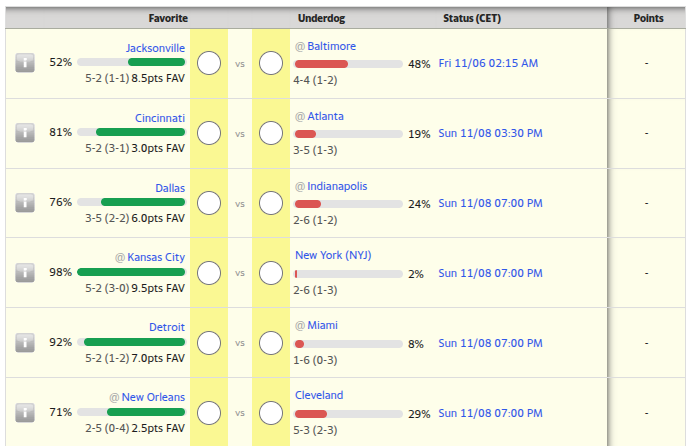
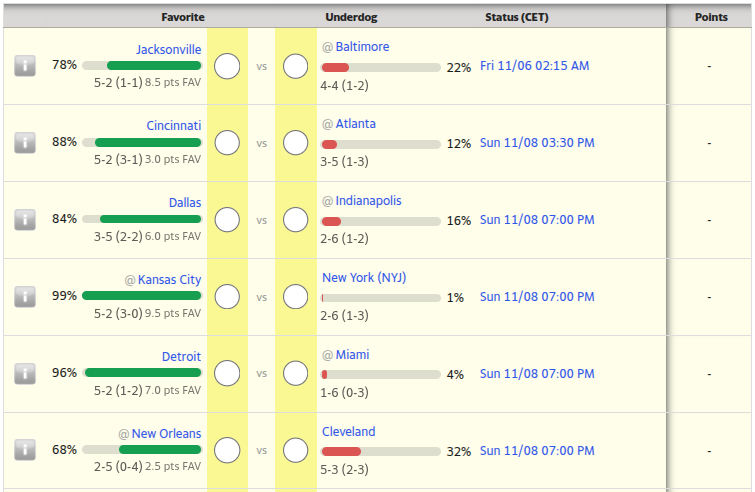
Add README and MIT license
Include the updated screenshot.

diff --git a/README.md b/README.md
@@ -1,0 +1,63 @@
+# Better Yahoo Pick'em Form
+
+A userscript that improves the picks form of Yahoo! Fantasy Football **Pick'em** games, for both **College Football (CFB)** and the **NFL**.
+
+Yahoo shows the pick distribution, the team records and the spread on another view of the page, so making your picks means constantly moving your eyes back and forth or clicking "matchup information" for every game, if you rely on those informations to do so. This script displays them **directly under each team** of the form.
+
+![Pick'em form with the pick distribution, records and spread under each team](screenshot.png)
+
+## What it shows
+
+Under each team, for every game of the form:
+
+- **Pick distribution**: the percentage of players in your group who picked that team, with a bar (green for the most picked team, red for the other one).
+- **Record**: the team's overall W-L record, followed by its home or away record in parentheses, as Yahoo displays it.
+- **Spread**: the points spread in favor of the favorite (`x.x pts FAV`).
+
+## Installation
+
+1. Install a userscript manager, such as [Tampermonkey](https://www.tampermonkey.net/) (recommended) or Violentmonkey.
+   - On Chrome and Edge, you may need to enable **Allow User Scripts** on the extension's details page (or Developer Mode on older versions), otherwise no script will run.
+2. In *Tampermonkey*, go to the **Utilities** tab, paste this URL in the **Import from URL** field (at the bottom of the page) and click **Install**:
+
+   ```
+   https://raw.githubusercontent.com/WalsGit/Better-yahoo-pickem/main/BetterYahooPickem.user.js
+   ```
+
+You can also install it from one of these sources:
+
+- Greasy Fork: *link to be added*
+- OpenUserJS: *link to be added*
+
+## Supported pages
+
+The script runs on the pick forms of your groups:
+
+| Game | Page |
+| --- | --- |
+| NFL Pick'em | `https://football.fantasysports.yahoo.com/pickem/{group id}/{user id}` |
+| College football Pick'em | `https://football.fantasysports.yahoo.com/college/{group id}/{user id}` |
+
+It does nothing on pages without a pick form (past weeks, upcoming weeks whose games are not set yet, or viewing other users' picks).
+
+## How it works
+
+The script reads the "matchup information" page Yahoo links from the form, which contains the pick distribution of all games, with a single request. Each game of that page is then matched to its row in the form through the teams' Yahoo page URLs, and the data is displayed under the team names. Nothing is sent anywhere else, and the script needs no special permission.
+
+## Limitations
+
+- It depends on Yahoo's page structure. If Yahoo changes it, the script may stop displaying data until it is updated. Selectors are grouped in the `CONFIG` object at the top of the script.
+
+## Troubleshooting
+
+- Nothing is displayed: make sure the page has a pick form, that the script is enabled in your userscript manager, and (on Chrome and Edge) that user scripts are allowed.
+- Open the browser console (F12). The script logs its warnings with the `[BYP]` prefix, for example when it cannot load the pick distribution or match a game.
+- Please report problems on the [issue tracker](https://github.com/WalsGit/Better-yahoo-pickem/issues).
+
+## Notes
+
+- Made with Claude Code.
+
+## License
+
+[MIT](LICENSE) © 2026 Wa!id
